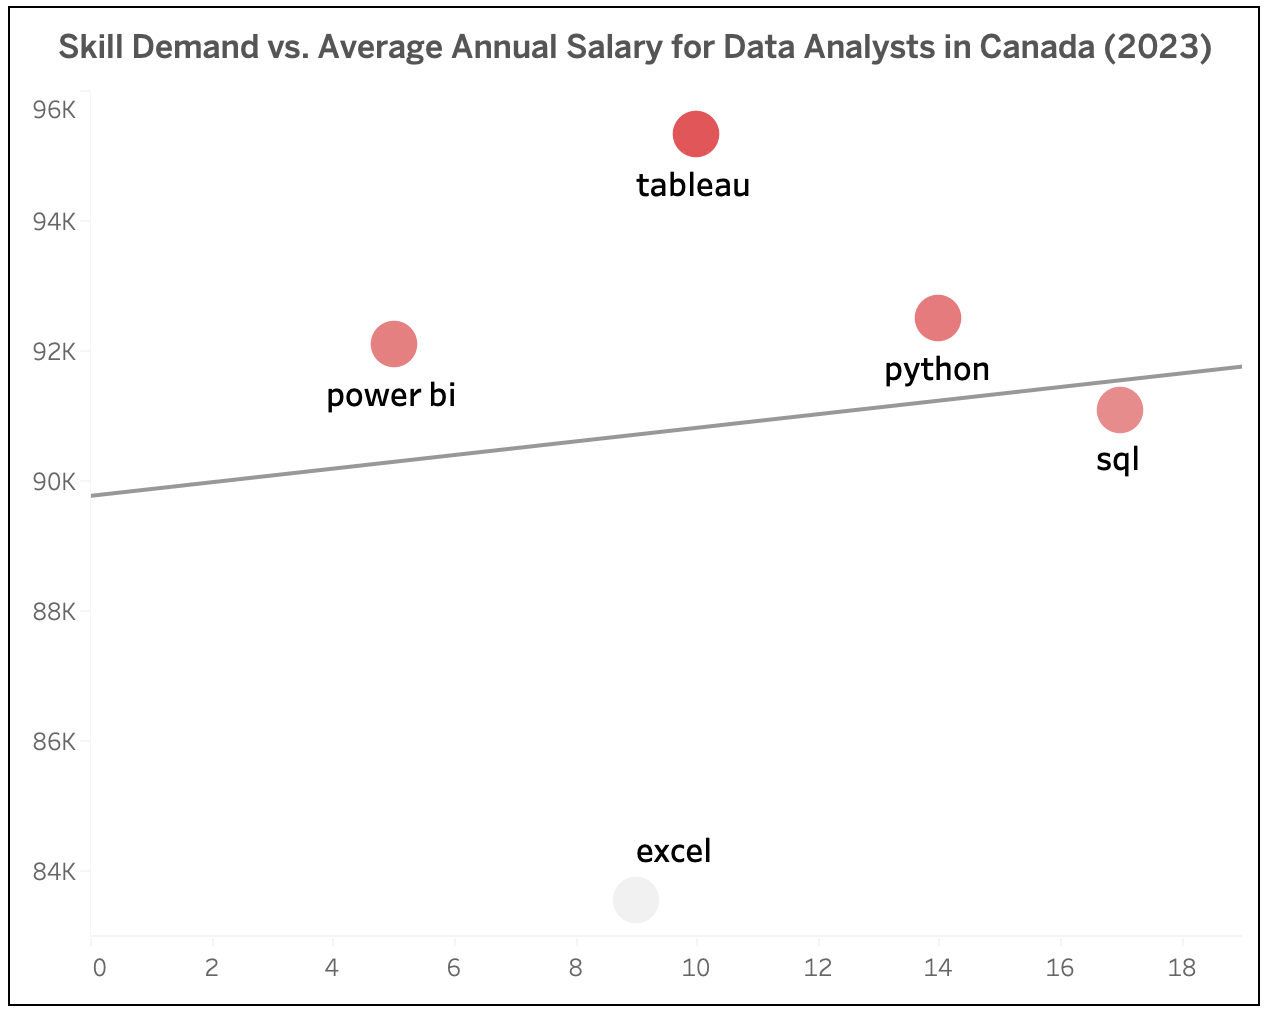
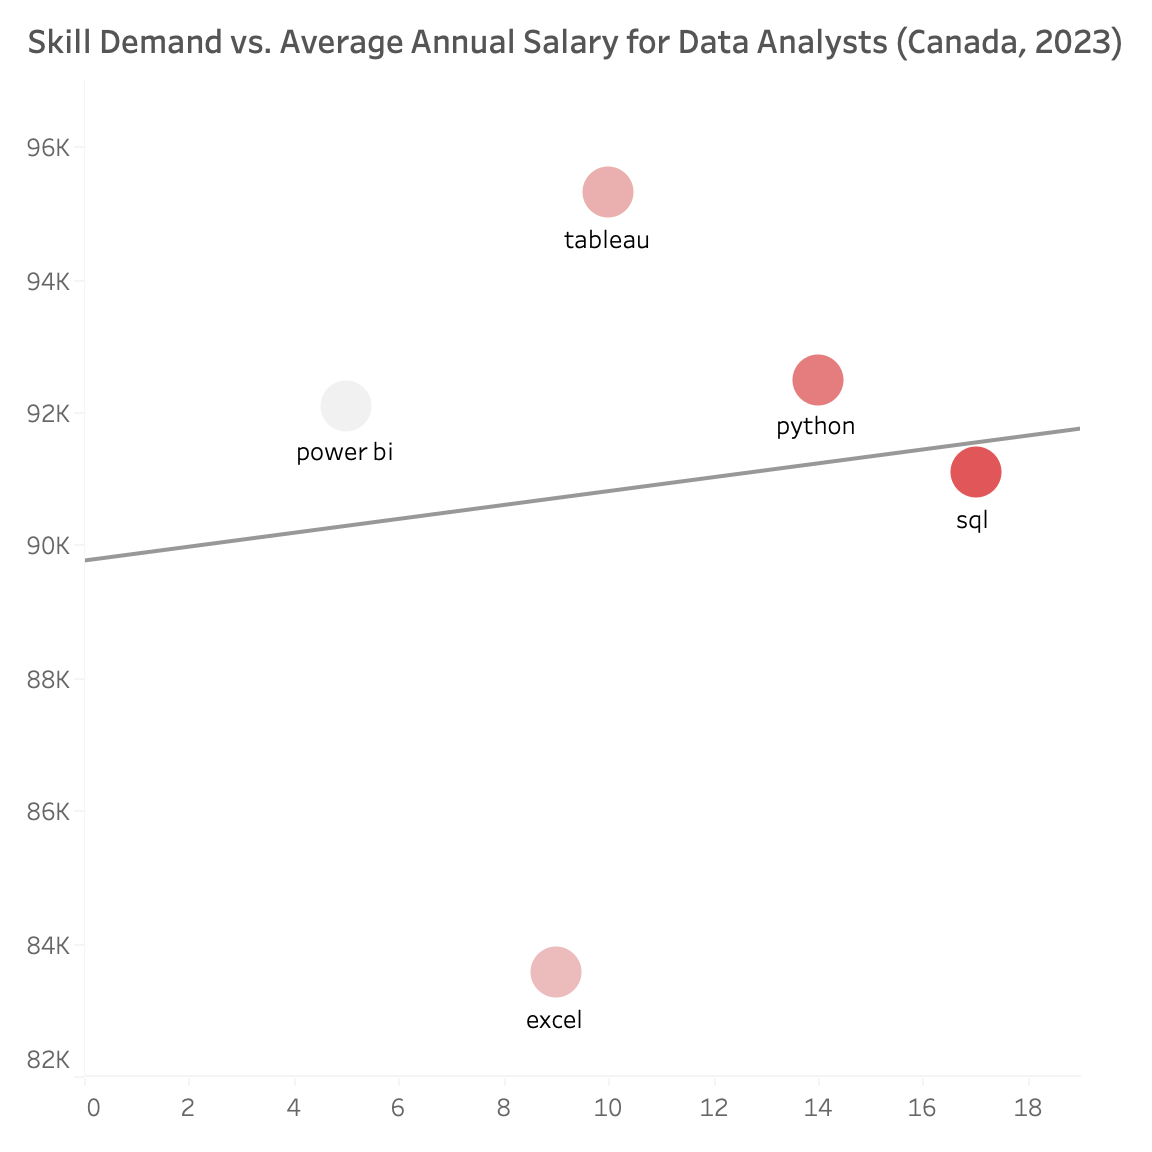
Visualization update

diff --git a/README.md b/README.md
@@ -73,7 +73,7 @@ What skills are most valuable for aspiring Data Analysts? This project uses SQL 
 <br>
 
 ![Top Paying Rolls](assets/query_1.png)
-*Bar chart visualizing the average annual salaries of the top 10 highest-paying Data Analyst positions in Canada. Based on SQL query results, visualized in Excel.*
+*Bar chart visualizing the average annual salaries of the top 10 highest-paying Data Analyst positions in Canada. Based on SQL query results, visualized in Tableau.*
 
 <br>
 
@@ -133,7 +133,7 @@ This query highlight all skills listed for these top-pay Data Analyst jobs:
 <br>
 
 ![Skills Required](assets/query_2.png)
-*Bar chart visualizing the top technical skills required for the top-paying Data Analyst positions in Canada. Based on SQL query results, visualized in Excel using Pivot Table values.*
+*Bar chart visualizing the top technical skills required for the top-paying Data Analyst positions in Canada. Based on SQL query results, visualized in Tableau.*
 
 <br>
 